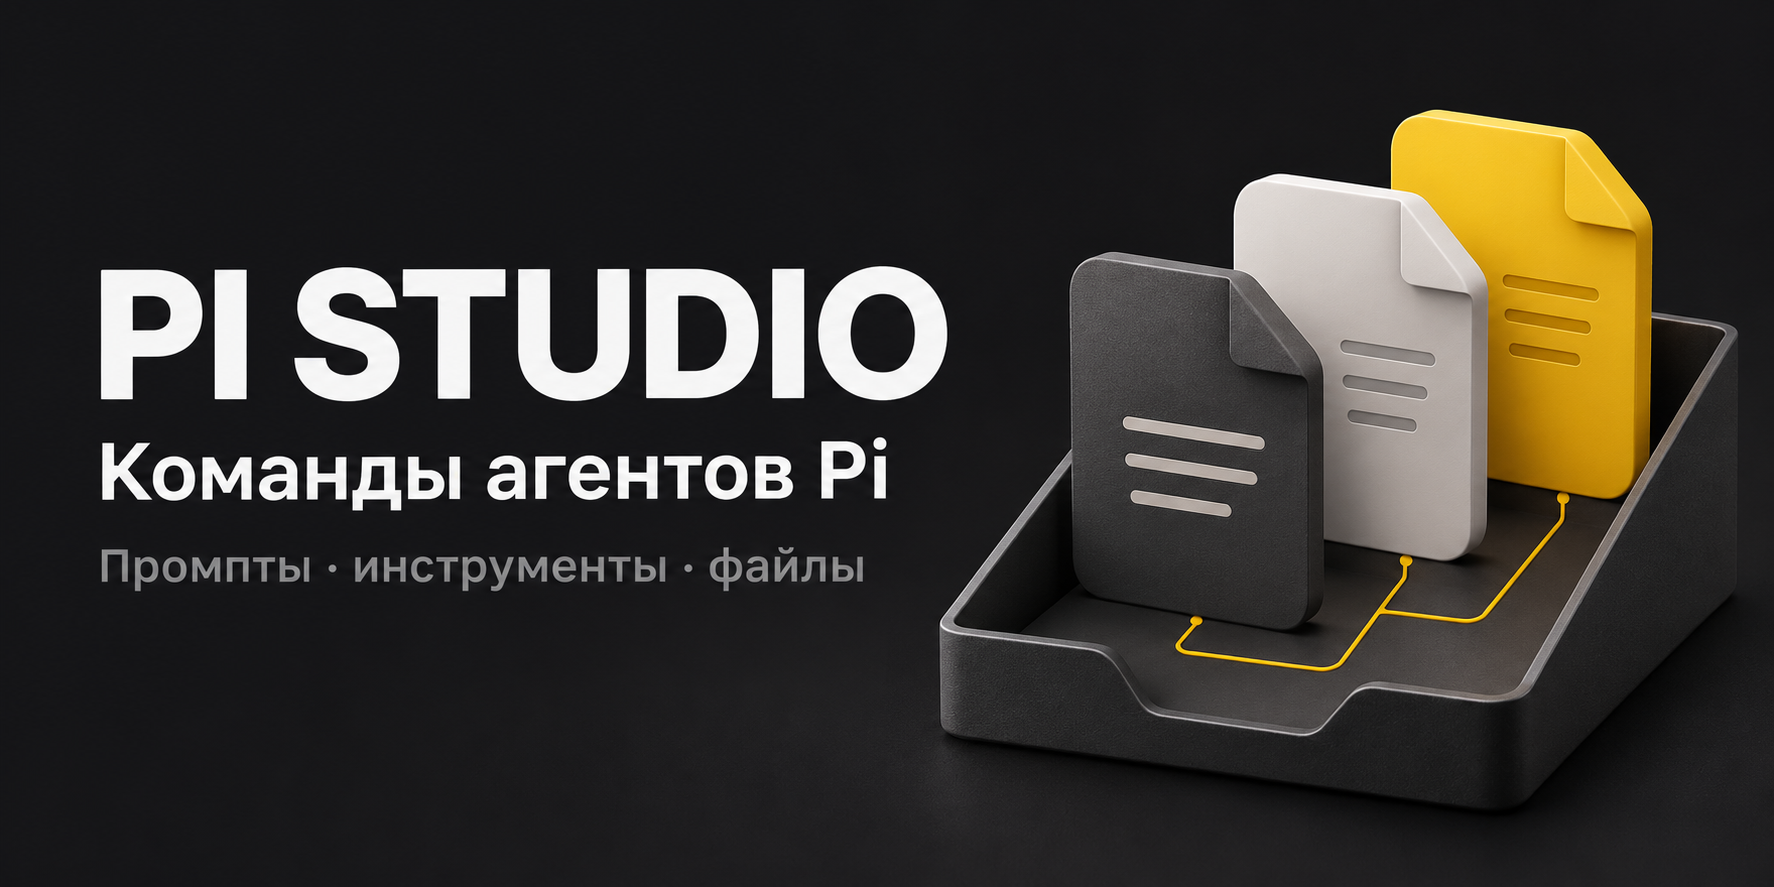
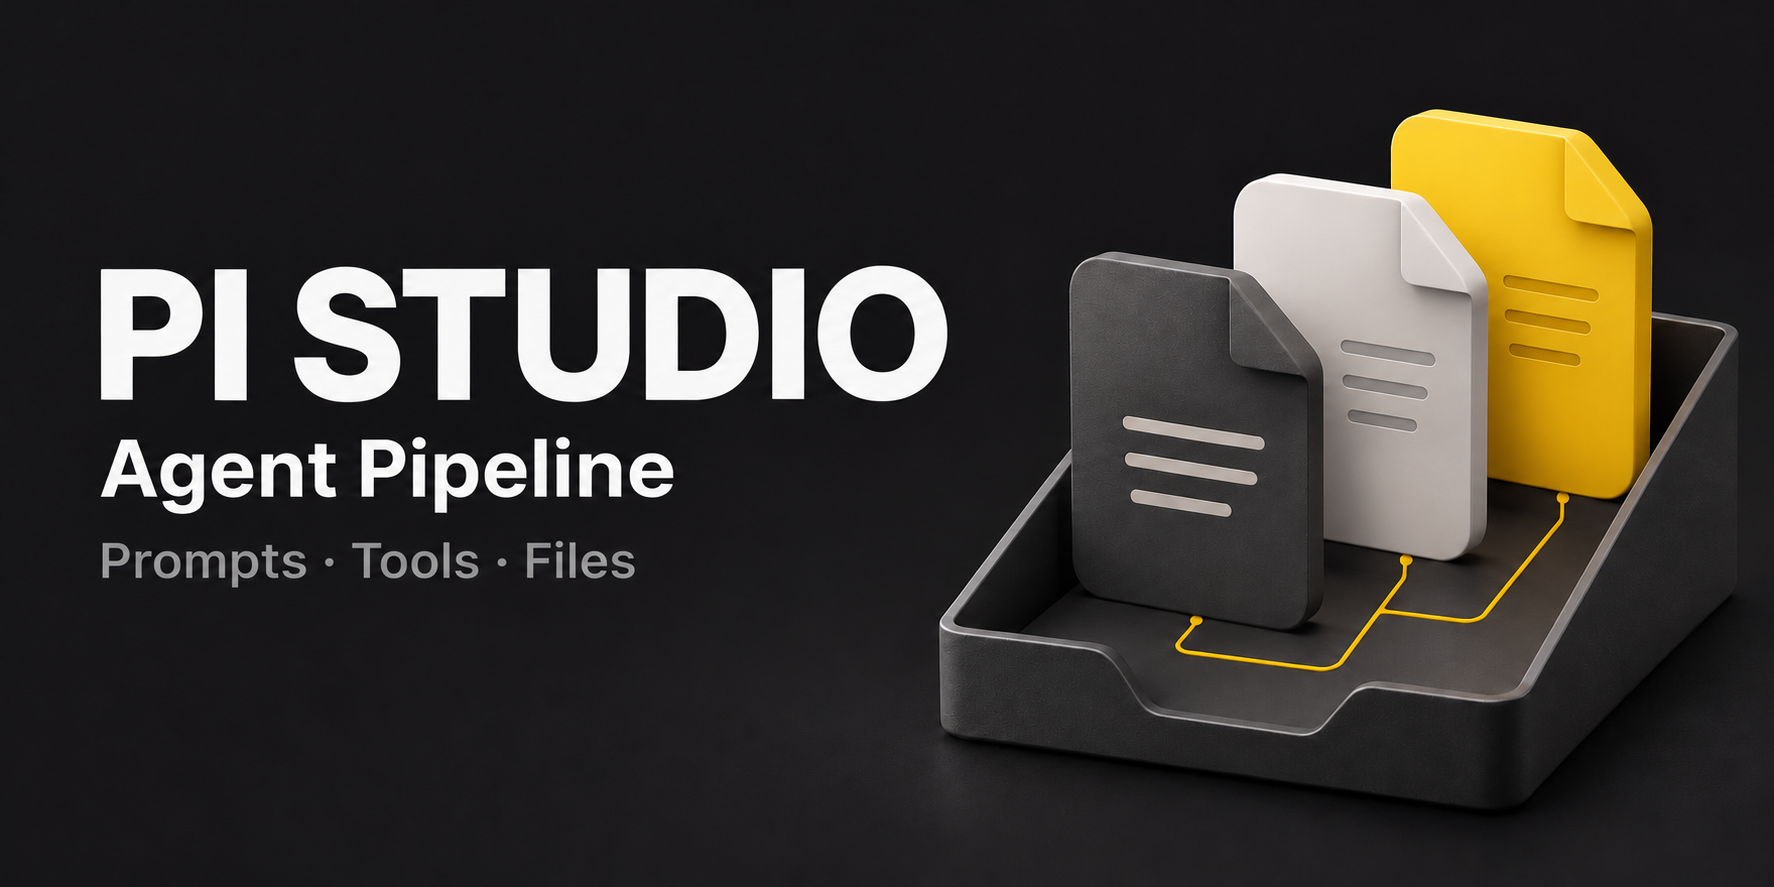
docs: localize GitHub cover as Agent Pipeline

diff --git a/docs/media/README.md b/docs/media/README.md
@@ -1,6 +1,6 @@
 # Материалы страницы Pi Studio
 
-- `cover.png` и `workflow.png` — новые растровые иллюстрации, созданные встроенным image_gen 16 ноября 2026 по прямому запросу пользователя. Проверены обе картинки целиком: русские подписи, композиция, читаемость и отсутствие выдуманного интерфейса. Это оформление и схема работы, не скриншоты и не запись генерации агентами Studio. Фактические размеры и контрольные суммы — в `generation-proof.json`; промпты — в [generation-prompts.md](./generation-prompts.md). Прежняя векторная обложка и её уменьшенный preview заменены, копии не сохраняются в дереве проекта.
+- `cover.png` и `workflow.png` — новые растровые иллюстрации, созданные встроенным image_gen 16 ноября 2026 по прямому запросу пользователя. Проверены обе картинки целиком: подписи, композиция, читаемость и отсутствие выдуманного интерфейса. Обложка по последующей правке пользователя полностью переведена на английский: «PI STUDIO», «Agent Pipeline», «Prompts · Tools · Files»; workflow.png сохраняет русские подписи. Это оформление и схема работы, не скриншоты и не запись генерации агентами Studio. Фактические размеры и контрольные суммы — в `generation-proof.json`; промпты — в [generation-prompts.md](./generation-prompts.md). Прежняя векторная обложка и её уменьшенный preview заменены, копии не сохраняются в дереве проекта.
 - `projects.png`, `agents.png`, `project.png`, `team-transfer.png` — снимки настоящего native main/preload/renderer alpha.72. Данные явно созданы для документации через native IPC в отдельной временной студии. На старте отдельно проверены ноль команд и ноль ordinary agents.
 - Переснять: `npm run build`, затем `npx electron scripts/capture-readme.cjs`. Анимация: `python3 scripts/render-readme-gif.py` (Pillow). QA использует scripts/offscreen-main.cjs, accessory policy, отдельные userData/студию, mute audio и отказ вместо native unsaved-state dialog. Пользовательская студия и работающая установленная программа не изменяются; запросы модели и Terminal не запускаются.
 - Входящие в веб-макет персонажи, локации и их provenance сохраняются отдельно в public; эти скриншоты не означают наличие предустановленных материалов в native-приложении.

diff --git a/docs/media/generation-prompts.md b/docs/media/generation-prompts.md
@@ -1,6 +1,6 @@
 # Генеративные иллюстрации GitHub
 
-Инструмент: встроенный image_gen. Иллюстрации описывают продукт, а не изображают работающий интерфейс. Реальные снимки UI сохраняются отдельно. По прямой правке пользователя вместо старого слогана используется конкретное описание «Команды агентов Pi».
+Инструмент: встроенный image_gen. Иллюстрации описывают продукт, а не изображают работающий интерфейс. Реальные снимки UI сохраняются отдельно. Последняя правка пользователя: обложка полностью на английском, вторая строка — «Agent Pipeline». Первоначальные промпты ниже сохранены как происхождение иллюстраций; актуальная английская редакция описана в последнем разделе.
 
 ## Обложка
 
@@ -16,6 +16,21 @@ Exact text, and no other text:
 3. "Промпты · инструменты · файлы" — smaller muted gray line beneath, still readable at 900px width.
 
 No slogans, no claims about autonomous completion, no logos from other companies, no badges, no UI panels or tiny dummy text, no watermark. High-end editorial identity rather than a template banner. The output should stay crisp when viewed on a retina screen.
+
+## English cover edit — 16 ноября 2026
+
+Инструмент: встроенный image_gen. Вход: прежняя docs/media/cover.png, SHA-256 a76f630388b8e557c5ce986d79149c9f6c2a0b9a6cb886e700815382ff30b6f2. Результат заменяет ту же обложку по явному запросу пользователя. Размер 1774×887; все три строки проверены визуально.
+
+```text
+Use case: text-localization.
+Edit target: the supplied current PI STUDIO GitHub banner. This is a precise English text replacement, not a redesign.
+Replace all in-image copy with exactly these three left-aligned lines:
+1. "PI STUDIO" — retain the existing very large white title unchanged.
+2. "Agent Pipeline" — replace the current Russian subtitle, keeping its medium-large white bold grotesk style, left alignment and vertical position.
+3. "Prompts · Tools · Files" — replace the current small gray Russian line, keeping the muted gray color, font weight, left alignment and vertical position.
+All visible text must be English and spelled exactly as above. Do not leave any Cyrillic text or add any other words.
+Preserve the existing wide 2:1 composition and framing, matte graphite background, the three upright graphite/white/yellow document tiles on the right, their tray and connecting yellow lines, camera angle, materials, lighting, shadows, scale, and generous margins. Change only the two localized text lines. Keep the first line PI STUDIO exactly and preserve crisp high-resolution typography. Opaque background.
+```
 
 ## Рабочий процесс
 

diff --git a/README.md b/README.md
@@ -1,6 +1,6 @@
 <div align="center">
 
-<img src="docs/media/cover.png" alt="Pi Studio — команды AI-агентов" width="760" />
+<img src="docs/media/cover.png" alt="Pi Studio — Agent Pipeline" width="760" />
 
 ### Соберите команду AI-агентов. Поставьте проекты на поток.
 
